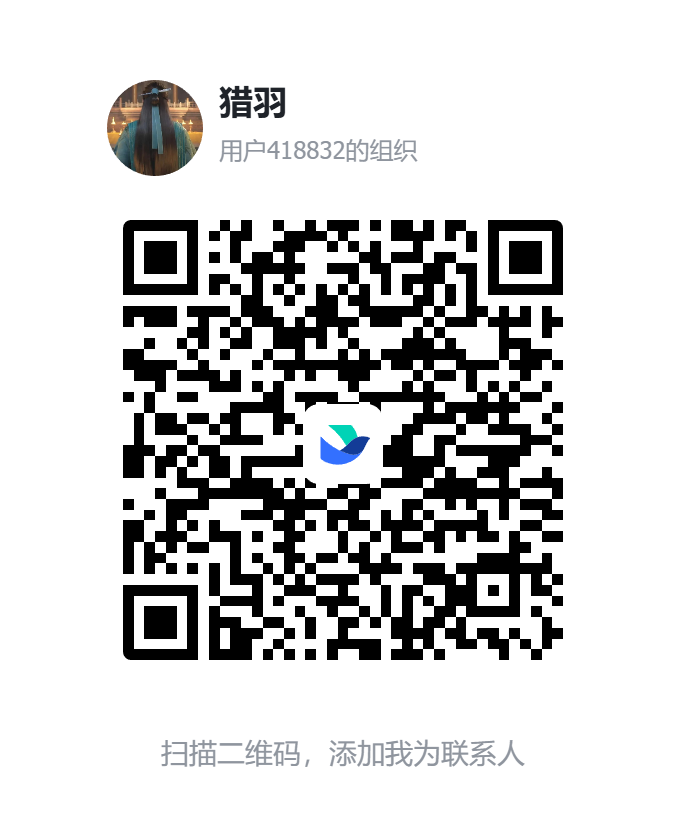
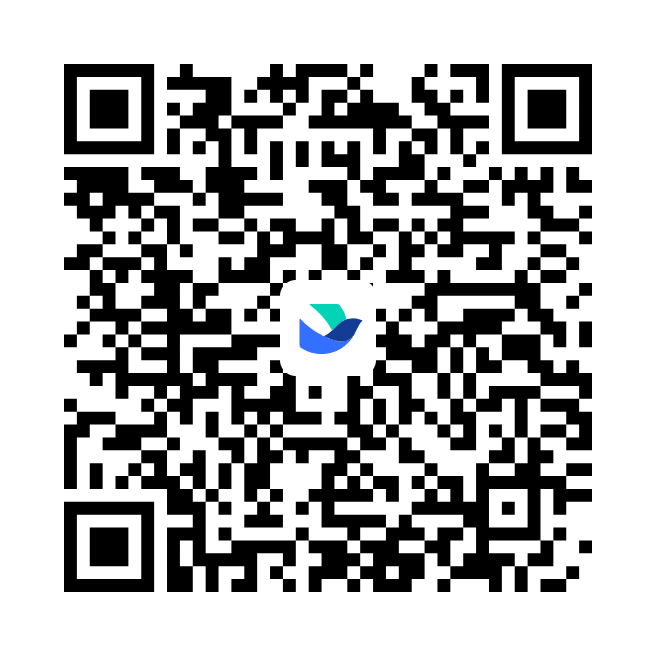
docs(readme): CONNECT 区飞书码换成 DSH 插件交流群群码
- assets/feishu-qr.png：由「作者飞书」个人码换成「DSH 插件交流群」群码。从用户给的 1372×1392 卡片截图中裁出 528×528 二维码本体（像素级无损，与源图本体 mean abs diff = 0），贴到 655×655 纯白画布：静默区上/左 64px、下/右 63px（≈5 个模块，QR 规范要求 ≥4），四角与外侧 40px 条带纯白，PNG RGB 80 KB。载荷为飞书群邀请链接 applink.feishu.cn/client/chat/chatter/add_by_link?link_token=…（旧件是 add_contact 个人名片码，方向正确）
- README.md（中文）与 docs/README.en.md（英文）文案同步：由「添加作者飞书 + 备注 dsh-opencode-palette」改为「扫码加入 DSH 插件交流群 / DSH plugin community group」；img 的 src 路径与 width="260" 沿用不变（260px 下 6.34 图像 px/模块，实测降采样至 208px 仍可解码）
- tests/readme-head-tail.test.ts：CONNECT 断言随事实更新——保留 issue 入口 / 二维码路径 / 宽度断言，新增「社群名称在场」并禁止旧的「备注词 / mention」说法回潮

diff --git a/tests/readme-head-tail.test.ts b/tests/readme-head-tail.test.ts
@@ -180,16 +180,21 @@ test('THANKS：八人九花，按花数排行（oopsdoes 两花置顶）', () =>
   }
 })
 
-// ── 6 · CONNECT：issue 入口 + 飞书码 + 备注词（沿用，不新增渠道） ──
-test('CONNECT：issue 入口与飞书码沿用，备注词不变', () => {
+// ── 6 · CONNECT：issue 入口 + 社群二维码（2026-10-18 由「作者飞书」换成 DSH 插件交流群群码） ──
+test('CONNECT：issue 入口与交流群二维码沿用，宽度不变', () => {
   assert.ok(ZH.includes('[提交 Issue](https://github.com/FeatherHunter/dsh-opencode-palette/issues)'), '中文 issue 入口在场')
   assert.ok(EN.includes('[open an issue](https://github.com/FeatherHunter/dsh-opencode-palette/issues)'), '英文 issue 入口在场')
-  assert.ok(ZH.includes('src="assets/feishu-qr.png"'), '中文页飞书码路径在场')
-  assert.ok(EN.includes('src="../assets/feishu-qr.png"'), '英文页飞书码路径在场')
+  assert.ok(ZH.includes('src="assets/feishu-qr.png"'), '中文页二维码路径在场（文件名沿用，内容已换成群码）')
+  assert.ok(EN.includes('src="../assets/feishu-qr.png"'), '英文页二维码路径在场')
   for (const doc of [ZH, EN, PKG]) {
-    assert.ok(doc.includes('`dsh-opencode-palette`'), '备注词 dsh-opencode-palette 在场')
-    assert.ok(doc.includes('width="260"'), '飞书码宽度沿用 260')
+    assert.ok(doc.includes('width="260"'), '二维码宽度沿用 260')
   }
+  // 群码无需备注：文案应写明是交流群，且旧的「加作者 / 备注词」说法不得回潮
+  assert.ok(ZH.includes('DSH 插件交流群'), '中文页应写明社群名称')
+  assert.ok(EN.includes('DSH plugin community group'), '英文页应写明社群名称')
+  assert.equal(ZH.includes('备注 `dsh-opencode-palette`'), false, '中文页不应再有「备注词」旧说法')
+  assert.equal(EN.includes('mention `dsh-opencode-palette`'), false, '英文页不应再有 mention 旧说法')
+  assert.equal(PKG.includes('mention `dsh-opencode-palette`'), false, '包内副本由英文页再生，不应带旧说法')
 })
 
 // ── 7 · 包内副本 = 英文页去掉 showcase 块（构建产物，永不手改） ──

diff --git a/README.md b/README.md
@@ -125,8 +125,8 @@ dsh plugin --profile web add dsh-opencode-palette@<版本>
 
 <div align="center">
 
-遇到问题或有改进建议，欢迎直接 [提交 Issue](https://github.com/FeatherHunter/dsh-opencode-palette/issues)；也欢迎扫码添加作者飞书，备注 `dsh-opencode-palette`，一起交流。
+遇到问题或有改进建议，欢迎直接 [提交 Issue](https://github.com/FeatherHunter/dsh-opencode-palette/issues)；也欢迎扫码加入 **DSH 插件交流群**，一起交流。
 
-<img src="assets/feishu-qr.png" alt="作者飞书二维码" width="260" />
+<img src="assets/feishu-qr.png" alt="DSH 插件交流群二维码" width="260" />
 
 </div>

diff --git a/docs/README.en.md b/docs/README.en.md
@@ -125,8 +125,8 @@ If you like this plugin, you might also like:
 
 <div align="center">
 
-Found a bug or have an idea? Please [open an issue](https://github.com/FeatherHunter/dsh-opencode-palette/issues). You can also scan the QR code to add the author on Feishu (mention `dsh-opencode-palette`).
+Found a bug or have an idea? Please [open an issue](https://github.com/FeatherHunter/dsh-opencode-palette/issues). You can also scan the QR code to join the **DSH plugin community group**.
 
-<img src="../assets/feishu-qr.png" alt="Author's Feishu QR code" width="260" />
+<img src="../assets/feishu-qr.png" alt="DSH plugin community group QR code" width="260" />
 
 </div>
